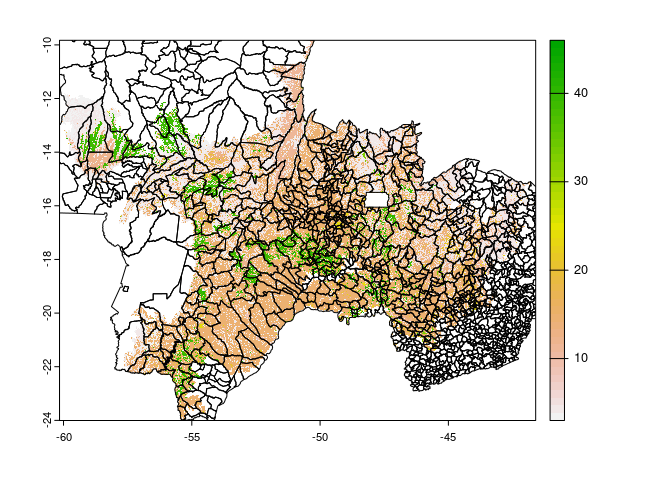
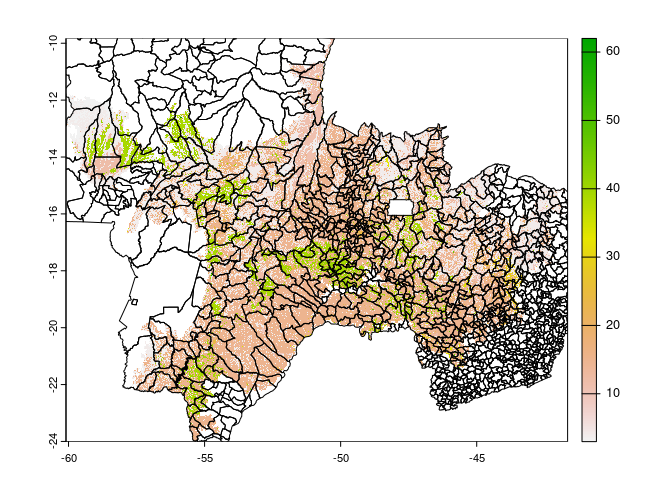
update for mapbiomas7

diff --git a/Inputs/Cerrado-LC-Input.md b/Inputs/Cerrado-LC-Input.md
@@ -1,13 +1,13 @@
 Cerrado Land Cover Input
 ================
 James D.A. Millington
-July 2022
+April 2023
 
 ``` r
 library(terra)
 ```
 
-    ## terra 1.5.34
+    ## terra 1.7.29
 
 ``` r
 library(readxl)
@@ -17,11 +17,11 @@ This document presents a record of analysis to create land cover inputs
 to an application of CRAFTY to Cerrado biome in four states (GO, MT, MS,
 MG).
 
-[MapBiomas](https://mapbiomas.org/en) Collection 6 Land Cover raster
-(.tif) files were downloaded for 2001-2020 for the Cerrado biome via the
+[MapBiomas](https://mapbiomas.org/en) Collection 7 Land Cover raster
+(.tif) files were downloaded for 2001-2021 for the Cerrado biome via the
 Toolkits in Google Earth Engine. Spatial resolution was changed from
 from 30m to 1000m in the run dialogue. Outputs had naming convention
-*mapbiomas-brazil-collection-60-cerrado-YYYY-1km.tif* where *YYYY* is
+*mapbiomas-brazil-collection-70-cerrado-YYYY-1km.tif* where *YYYY* is
 four digit year.
 
 Because we can download mapbiomas data at our desired resolution
@@ -35,24 +35,29 @@ So, first. combine the mapbiomas raster files into a single multi-layer
 raster and set `0` values to `No Data`
 
 ``` r
-r <- rast("data/raster/mapbiomas6/mapbiomas-brazil-collection-60-cerrado-2001-1km.tif")
-for(i in 2002:2020){
-  r1 <- rast(paste0("data/raster/mapbiomas6/mapbiomas-brazil-collection-60-cerrado-",i,"-1km.tif"))
+r <- rast("data/raster/mapbiomas7/mapbiomas-brazil-collection-70-cerrado-2001-1km.tif")
+for(i in 2002:2021){
+  r1 <- rast(paste0("data/raster/mapbiomas7/mapbiomas-brazil-collection-70-cerrado-",i,"-1km.tif"))
   r <- c(r, r1)
 }
 r[r==0] <- NA
+```
+
+    ## |---------|---------|---------|---------|=========================================                                          |---------|---------|---------|---------|=========================================                                          
+
+``` r
 r
 ```
 
     ## class       : SpatRaster 
-    ## dimensions  : 2489, 2138, 20  (nrow, ncol, nlyr)
+    ## dimensions  : 2489, 2138, 21  (nrow, ncol, nlyr)
     ## resolution  : 0.008983153, 0.008983153  (x, y)
     ## extent      : -60.47944, -41.27346, -24.68777, -2.328703  (xmin, xmax, ymin, ymax)
     ## coord. ref. : lon/lat WGS 84 (EPSG:4326) 
-    ## source      : spat_gQimBc0MFtLCAWf_13401.tif 
+    ## source      : spat_dA5LpQpBuhGMjxQ_72548.tif 
     ## names       : class~_2001, class~_2002, class~_2003, class~_2004, class~_2005, class~_2006, ... 
     ## min values  :           3,           3,           3,           3,           3,           3, ... 
-    ## max values  :          48,          48,          48,          48,          48,          48, ...
+    ## max values  :          62,          62,          62,          62,          62,          62, ...
 
 ``` r
 plot(r[[1]])
@@ -157,20 +162,35 @@ four-state vector (plot one layer to check)
 
 ``` r
 rs4 <- crop(r , ext(s4)) 
+```
+
+    ## |---------|---------|---------|---------|=========================================                                          
+
+``` r
 rs4 <- mask(rs4, s4)
+```
+
+    ## |---------|---------|---------|---------|=========================================                                          
+
+``` r
 rs4 <- trim(rs4)
+```
+
+    ## |---------|---------|---------|---------|=========================================                                          
+
+``` r
 rs4
 ```
 
     ## class       : SpatRaster 
-    ## dimensions  : 1578, 2052, 20  (nrow, ncol, nlyr)
+    ## dimensions  : 1578, 2052, 21  (nrow, ncol, nlyr)
     ## resolution  : 0.008983153, 0.008983153  (x, y)
     ## extent      : -60.09316, -41.65973, -24.00505, -9.829635  (xmin, xmax, ymin, ymax)
     ## coord. ref. : lon/lat WGS 84 (EPSG:4326) 
-    ## source      : memory 
+    ## source      : spat_yUrliSsUqL4rBpg_72548.tif 
     ## names       : class~_2001, class~_2002, class~_2003, class~_2004, class~_2005, class~_2006, ... 
     ## min values  :           3,           3,           3,           3,           3,           3, ... 
-    ## max values  :          48,          48,          48,          48,          48,          48, ...
+    ## max values  :          62,          62,          62,          62,          62,          62, ...
 
 ``` r
 plot(rs4[[1]])
@@ -182,25 +202,27 @@ plot(s4, add=T)
 Write multi-layer raster to .tif file
 
 ``` r
-writeRaster(rs4, "data/raster/mapbiomas6/mapbiomas6-cerrado-G3MGs-2001-2020-1km.tif", overwrite=TRUE)
+writeRaster(rs4, "data/raster/mapbiomas7/mapbiomas7-cerrado-G3MGs-2001-2021-1km.tif", overwrite=TRUE)
 ```
+
+    ## |---------|---------|---------|---------|=========================================                                          
 
 Re-load and plot to check this all worked.
 
 ``` r
-new <- rast("data/raster/mapbiomas6/mapbiomas6-cerrado-G3MGs-2001-2020-1km.tif")
+new <- rast("data/raster/mapbiomas7/mapbiomas7-cerrado-G3MGs-2001-2021-1km.tif")
 new
 ```
 
     ## class       : SpatRaster 
-    ## dimensions  : 1578, 2052, 20  (nrow, ncol, nlyr)
+    ## dimensions  : 1578, 2052, 21  (nrow, ncol, nlyr)
     ## resolution  : 0.008983153, 0.008983153  (x, y)
     ## extent      : -60.09316, -41.65973, -24.00505, -9.829635  (xmin, xmax, ymin, ymax)
     ## coord. ref. : lon/lat WGS 84 (EPSG:4326) 
-    ## source      : mapbiomas6-cerrado-G3MGs-2001-2020-1km.tif 
+    ## source      : mapbiomas7-cerrado-G3MGs-2001-2021-1km.tif 
     ## names       : class~_2001, class~_2002, class~_2003, class~_2004, class~_2005, class~_2006, ... 
     ## min values  :           3,           3,           3,           3,           3,           3, ... 
-    ## max values  :          48,          48,          48,          48,          48,          48, ...
+    ## max values  :          62,          62,          62,          62,          62,          62, ...
 
 ``` r
 plot(new)
@@ -208,26 +230,98 @@ plot(new)
 
 ![](Cerrado-LC-Input_files/figure-gfm/unnamed-chunk-9-1.png)<!-- -->
 
+``` r
+#check classes present in each year
+unique(new, incomparables = TRUE)
+```
+
+    ## [[1]]
+    ##  [1]  3  4  9 11 12 15 20 21 24 25 29 30 33 39 41 46 47 48 62
+    ## 
+    ## [[2]]
+    ##  [1]  3  4  9 11 12 15 20 21 24 25 29 30 33 39 41 46 47 48 62
+    ## 
+    ## [[3]]
+    ##  [1]  3  4  9 11 12 15 20 21 24 25 29 30 33 39 41 46 47 48 62
+    ## 
+    ## [[4]]
+    ##  [1]  3  4  9 11 12 15 20 21 24 25 29 30 33 39 41 46 47 48 62
+    ## 
+    ## [[5]]
+    ##  [1]  3  4  9 11 12 15 20 21 24 25 29 30 33 39 41 46 47 48 62
+    ## 
+    ## [[6]]
+    ##  [1]  3  4  9 11 12 15 20 21 24 25 29 30 33 39 41 46 47 48 62
+    ## 
+    ## [[7]]
+    ##  [1]  3  4  9 11 12 15 20 21 24 25 29 30 33 39 41 46 47 48 62
+    ## 
+    ## [[8]]
+    ##  [1]  3  4  9 11 12 15 20 21 24 25 29 30 33 39 41 46 47 48 62
+    ## 
+    ## [[9]]
+    ##  [1]  3  4  9 11 12 15 20 21 24 25 29 30 33 39 41 46 47 48 62
+    ## 
+    ## [[10]]
+    ##  [1]  3  4  9 11 12 15 20 21 24 25 29 30 33 39 41 46 47 48 62
+    ## 
+    ## [[11]]
+    ##  [1]  3  4  9 11 12 15 20 21 24 25 29 30 33 39 41 46 47 48 62
+    ## 
+    ## [[12]]
+    ##  [1]  3  4  9 11 12 15 20 21 24 25 29 30 33 39 41 46 47 48 62
+    ## 
+    ## [[13]]
+    ##  [1]  3  4  9 11 12 15 20 21 24 25 29 30 33 39 41 46 47 48 62
+    ## 
+    ## [[14]]
+    ##  [1]  3  4  9 11 12 15 20 21 24 25 29 30 33 39 41 46 47 48 62
+    ## 
+    ## [[15]]
+    ##  [1]  3  4  9 11 12 15 20 21 24 25 29 30 33 39 41 46 47 48 62
+    ## 
+    ## [[16]]
+    ##  [1]  3  4  9 11 12 15 20 21 24 25 29 30 33 39 41 46 47 48 62
+    ## 
+    ## [[17]]
+    ##  [1]  3  4  9 11 12 15 20 21 24 25 29 30 33 39 41 46 47 48 62
+    ## 
+    ## [[18]]
+    ##  [1]  3  4  9 11 12 15 20 21 24 25 29 30 33 39 41 46 47 48 62
+    ## 
+    ## [[19]]
+    ##  [1]  3  4  9 11 12 15 20 21 24 25 29 30 33 39 41 46 47 48 62
+    ## 
+    ## [[20]]
+    ##  [1]  3  4  9 11 12 15 20 21 24 25 29 30 33 39 41 46 47 48 62
+    ## 
+    ## [[21]]
+    ##  [1]  3  4  9 11 12 15 20 21 24 25 29 30 33 39 41 46 47 48 62
+
 Now reclassify (no need for disaggregation like for CRAFTY-Brazil,
-because collection 6 include classes for soybeans etc)
+because collection 7 include classes for soybeans etc)
 
 ``` r
-classification <- read_excel(paste0("data/tables/mapbiomas6/MapBiomas_CRAFTY_classifications_v6.xlsx"), sheet = 'mb6-reclass1', range="B1:C35", col_names=T)  
+classification <- read_excel(paste0("data/tables/mapbiomas7/MapBiomas_CRAFTY_classifications_v7.xlsx"), sheet = 'mb7-reclass1', range="B1:C37", col_names=T)  
 map <- classify(new, rcl=as.matrix(classification))                 #classify
+```
+
+    ## |---------|---------|---------|---------|=========================================                                          
+
+``` r
 plot(map)
 ```
 
 ![](Cerrado-LC-Input_files/figure-gfm/unnamed-chunk-10-1.png)<!-- -->
 
 ``` r
-writeRaster(map, "data/raster/mapbiomas6/mapbiomas6-cerrado-G3MGs-2001-2020-1km-reclass1.tif", overwrite=T) #write!
+writeRaster(map, "data/raster/mapbiomas7/mapbiomas7-cerrado-G3MGs-2001-2021-1km-reclass1.tif", overwrite=T) #write!
 ```
 
-Create raster maps of states and municipalities (for region.csv)
+    ## |---------|---------|---------|---------|=========================================                                          
 
-dimensions : 1578, 2052, 20 (nrow, ncol, nlyr) resolution : 0.008983153,
-0.008983153 (x, y) extent : -60.09316, -41.65973, -24.00505, -9.829635
-(xmin, xmax, ymin, ymax) coord. ref. : lon/lat WGS 84 (EPSG:4326)
+Create raster maps of states and municipalities (for region.csv), usnf
+dimensions etc from ‘new’ `rast`
 
 ``` r
 G3MGsadmin_latlon <- rast(
